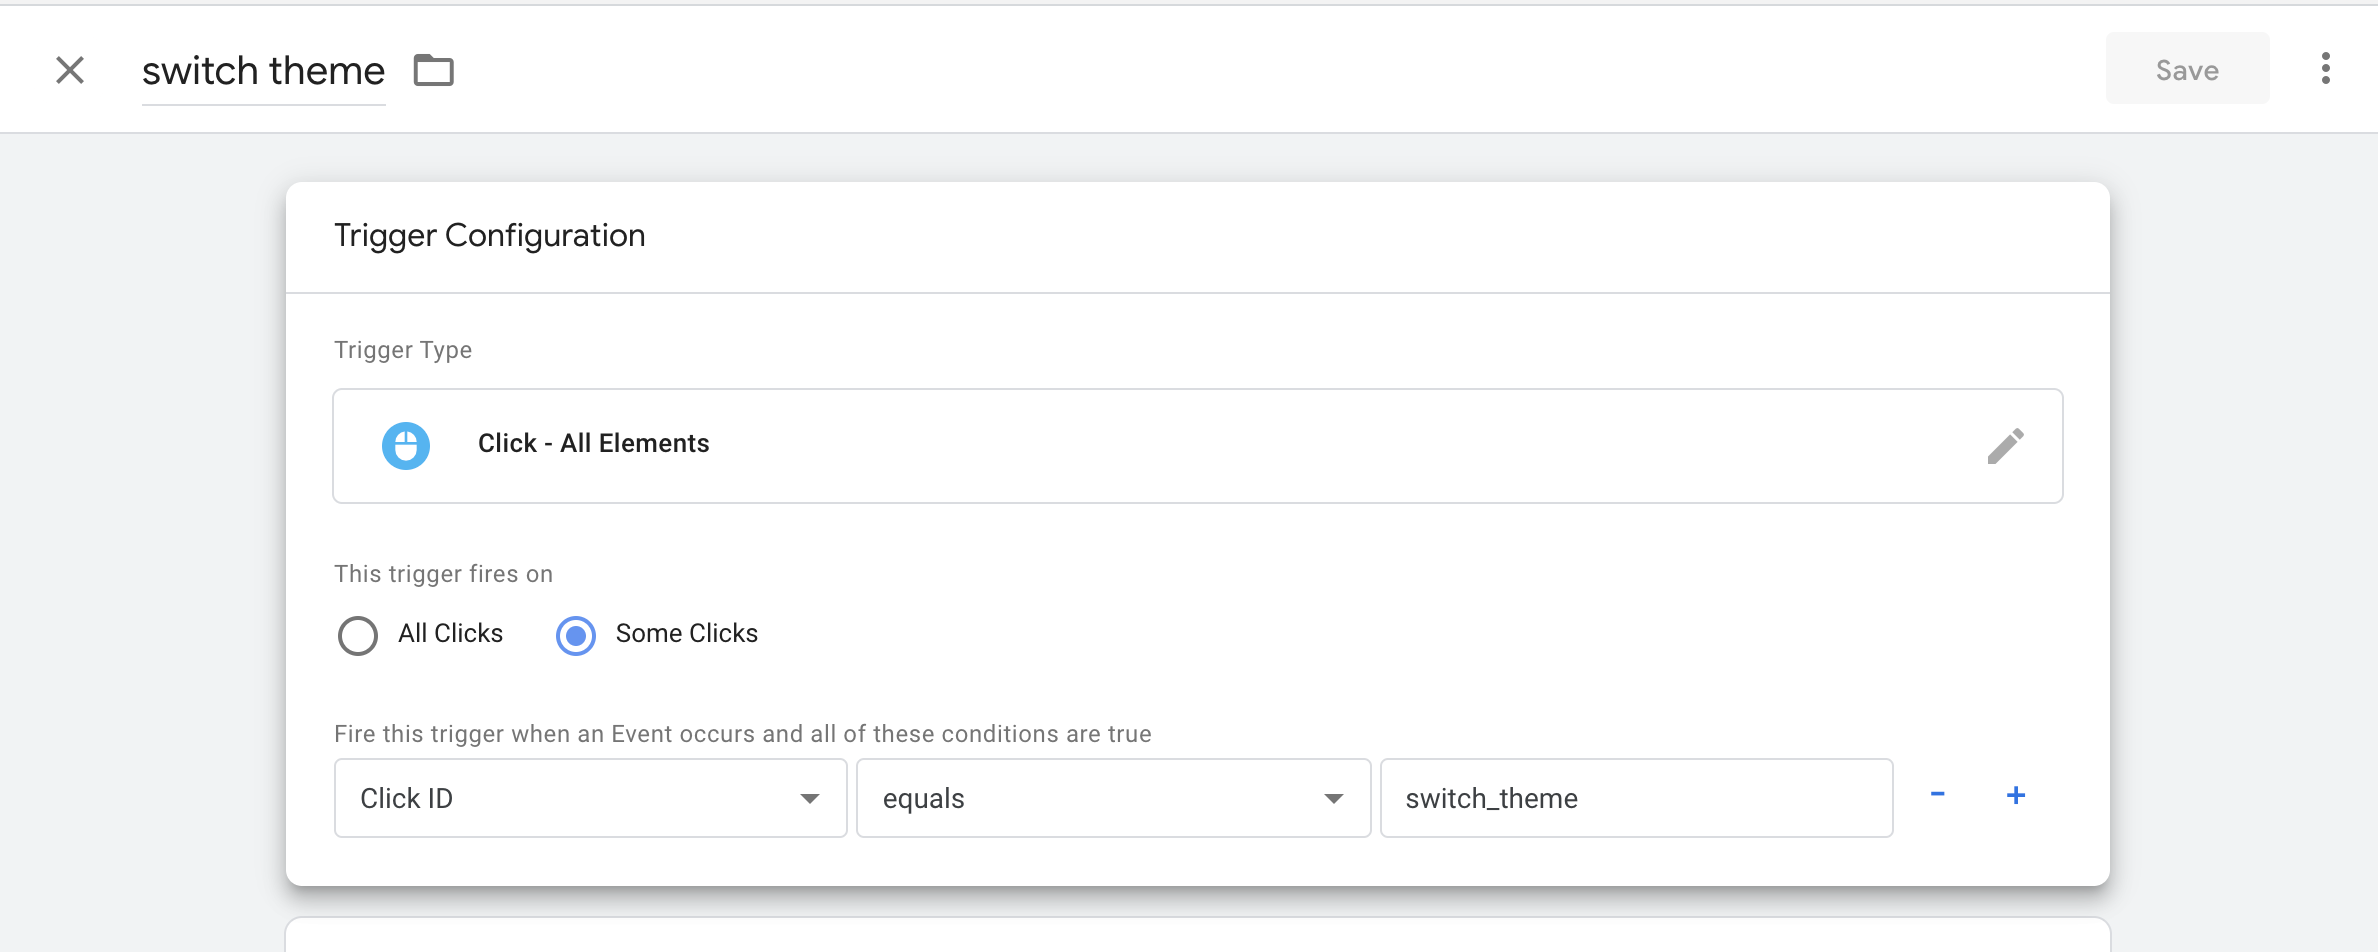
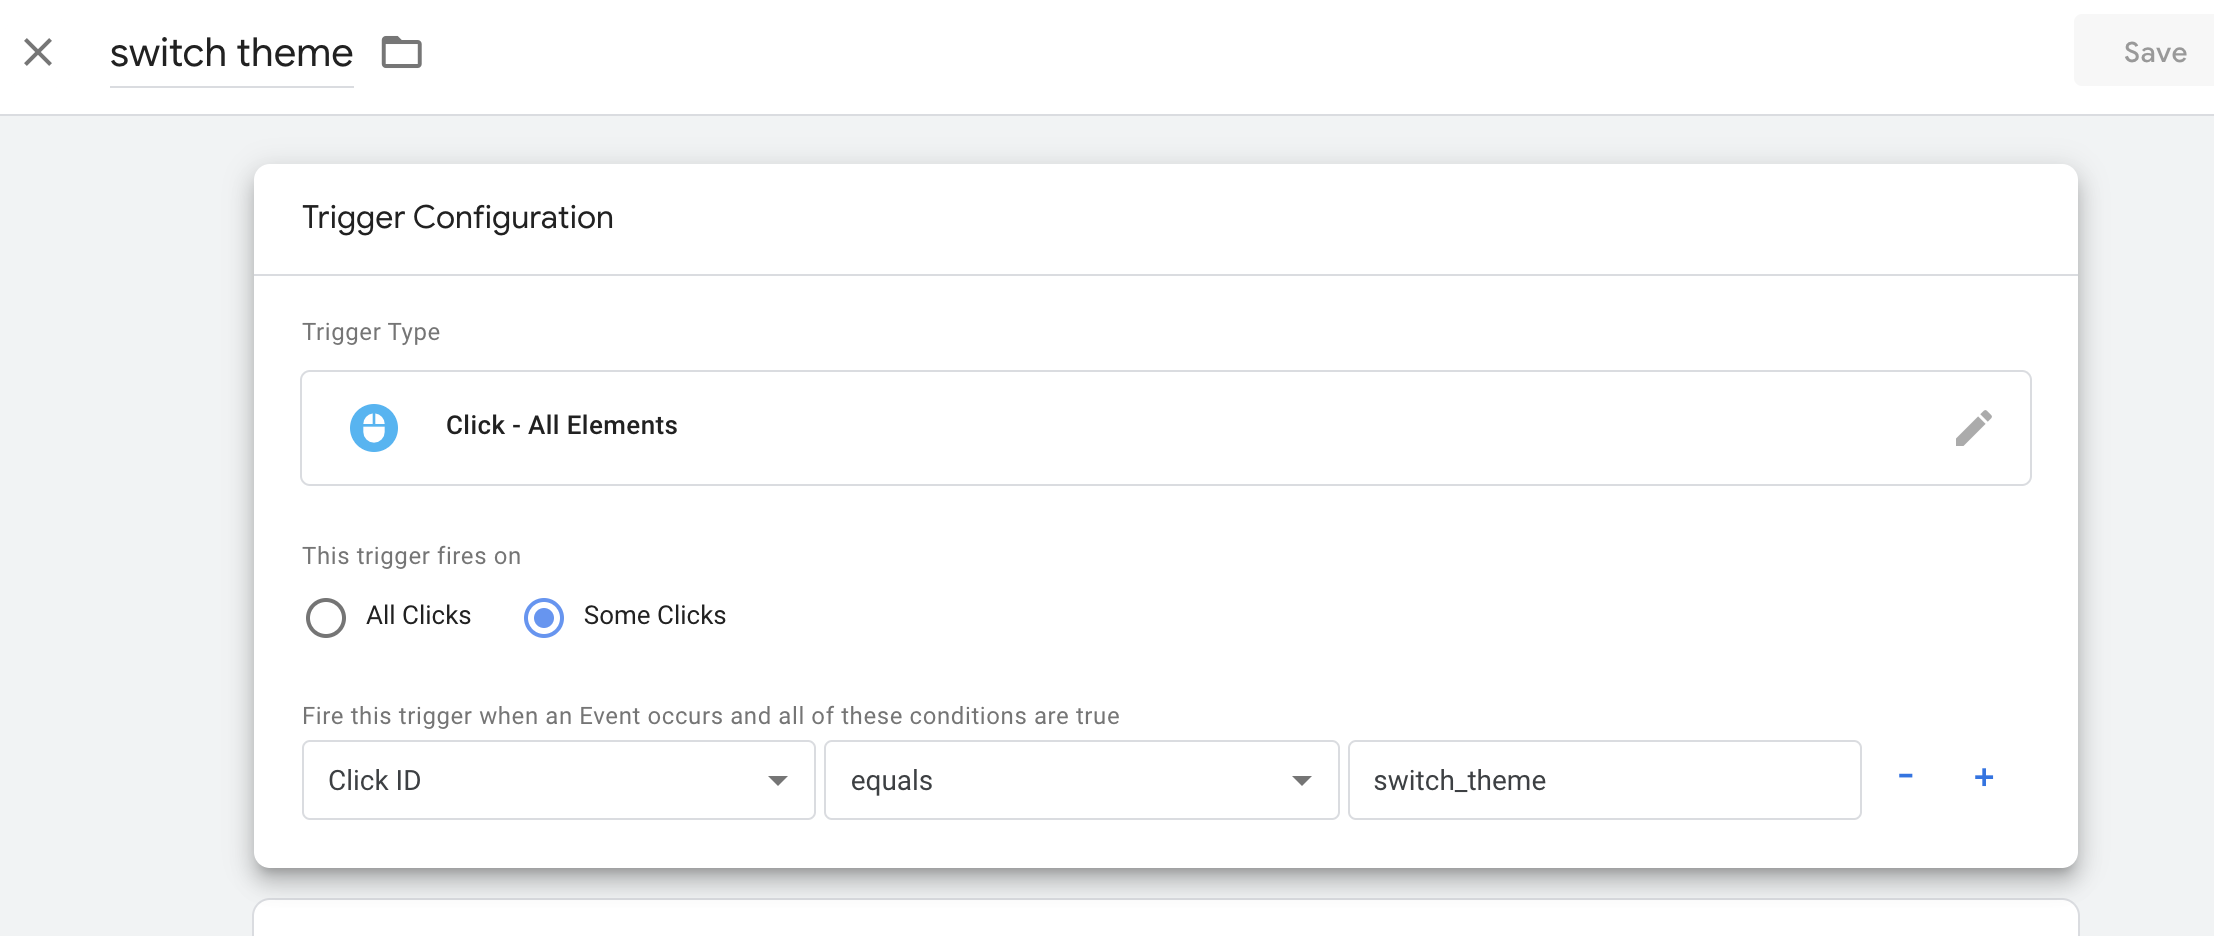
updated at Sat Sep 25 13:05:17 CST 2021

diff --git a/content/posts/setup-custom-event-tracking-to-ga-via-gtm.md b/content/posts/setup-custom-event-tracking-to-ga-via-gtm.md
@@ -1,0 +1,43 @@
+---
+title: '透過 GTM 綁定客製事件到 GA4'
+date: 2021-09-17T17:53:49+08:00
+draft: false
+author: 'whchi'
+tags: ['seo']
+summary: '埋了 GTM 卻不用客製化 event，履歷上敢寫你會 GTM？'
+preview_figure: ''
+preview_figcaption: ''
+preview_image: ''
+---
+
+# 設置 trigger
+前往你的 GTM 管理平台點擊 trigger 頁籤，新增 trigger
+
+有許多不同種類的 trigger 可以設定，這裡列舉 click 事件的 `url` 和 `element` 的 trigger 作為範例
+
+{{< figure
+src="/images/setup-gtm-trigger-type.png"
+caption="以 link 為主，且 path 為 tags/.+">}}
+
+{{< figure
+src="/images/setup-gtm-trigger-type-1.png"
+caption="以 element 為主，id 等於 switch_theme">}}
+
+此外還有 page view、user engagement 以及其他還無法歸納的類型可以使用，可依照自己的需求決定要埋設的類型 trigger
+# 設置 tag 並綁定 trigger
+{{< figure
+    src="/images/setup-gtm-tag.png"
+    caption="新增 tag 綁定 trigger">}}
+1. tag type 選擇 **GA4 Event**
+2. Configuration Tag 選擇 **Google Analytics GA4 Configuration**
+3. 定義要顯示到 GA console 的 event_name
+4. 綁定對應的 trigger
+
+設定完畢後先 preview，確定有效果再 submit（做版控）
+# 檢驗結果
+前往 GA console，過一段時間在 **Engagement::Events** 畫面就能看到自訂義事件的結果摟
+{{< figure
+    src="/images/setup-gtm-event-result-review.png"
+    caption="額外設定的 switch_theme 事件呈現在 console 上">}}
+## 補充
+regex 不熟悉的話可以到 [https://regex101.com/](https://regex101.com/) 或是 [https://ihateregex.io/](https://ihateregex.io/) 先找到 pattern，再貼回來